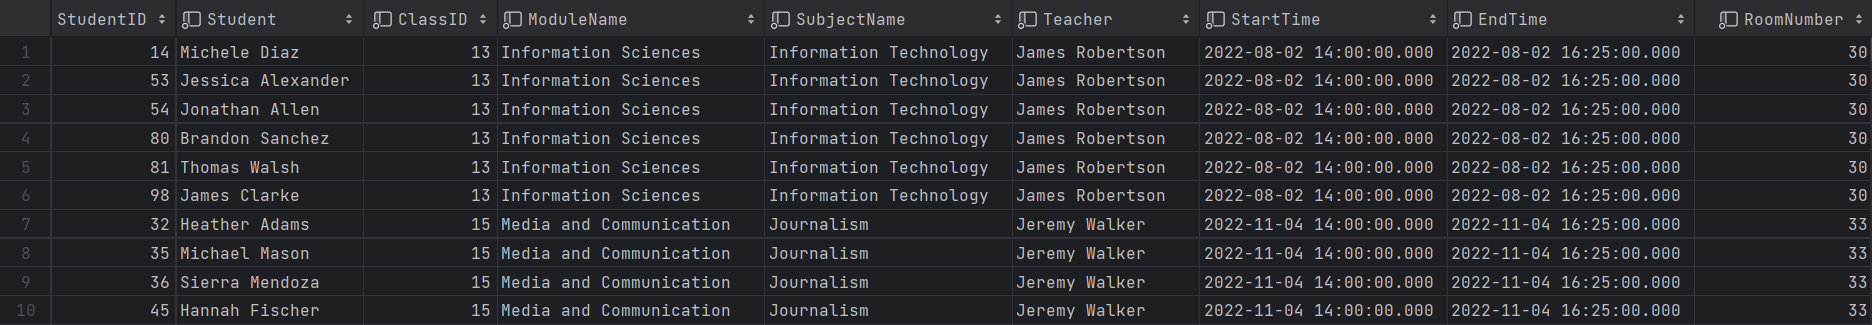
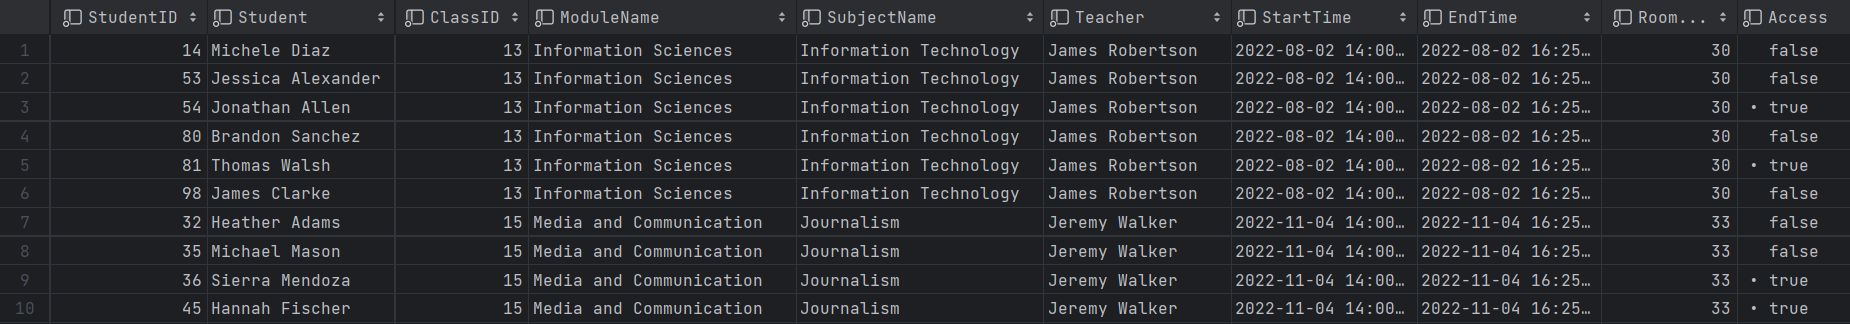
upd

diff --git a/report.md b/report.md
@@ -572,94 +572,106 @@ GROUP BY Studies.StudiesID, EducationalPrograms.ProgramName, EducationalPrograms
 
 ### **2. Lista „dłużników” – osoby, które skorzystały z usług, ale nie uiściły opłat.**
 ```sql
-CREATE VIEW Debtors 
-AS(
-SELECT S.*, ISNULL(OPS.ProgramsCost, 0) + ISNULL(OCS.ClassesCost, 0) - ISNULL(OP.Paid, 0) As Debt
-FROM Students S
-LEFT JOIN (
-    SELECT O.StudentID, SUM(EP.ProgramPrice) AS ProgramsCost
-    FROM Orders O
-    LEFT JOIN RegisteredPrograms RP ON RP.OrderID = O.OrderID
-    LEFT JOIN EducationalPrograms EP ON EP.ProgramID = RP.ProgramID
-    GROUP BY O.StudentID
-) OPS ON OPS.StudentID = S.StudentID
-LEFT JOIN (
-    SELECT O.StudentID, SUM(C.ClassPrice) AS ClassesCost
-    FROM Orders O
-    LEFT JOIN RegisteredClasses RC ON RC.OrderID = O.OrderID
-    LEFT JOIN Classes C ON C.ClassID = RC.ClassID
-    GROUP BY O.StudentID
-) OCS ON OCS.StudentID = S.StudentID
-LEFT JOIN (
-    SELECT O.StudentID, SUM(P.Amount) AS Paid
-    FROM Orders O
-    LEFT JOIN Payments P ON P.OrderID = O.OrderID
-    GROUP BY O.StudentID
-) OP ON OP.StudentID = S.StudentID
-WHERE ISNULL(OPS.ProgramsCost, 0) + ISNULL(OCS.ClassesCost, 0) > ISNULL(OP.Paid, 0)
-)
-
-
+CREATE VIEW Debtors AS
+    SELECT S.*, ISNULL(OPS.ProgramsCost, 0) + ISNULL(OCS.ClassesCost, 0) - ISNULL(OP.Paid, 0) As Debt
+    FROM Students S
+    LEFT JOIN (
+        SELECT O.StudentID, SUM(EP.ProgramPrice) AS ProgramsCost
+        FROM Orders O
+        LEFT JOIN RegisteredPrograms RP ON RP.OrderID = O.OrderID
+        LEFT JOIN EducationalPrograms EP ON EP.ProgramID = RP.ProgramID
+        GROUP BY O.StudentID
+    ) OPS ON OPS.StudentID = S.StudentID
+    LEFT JOIN (
+        SELECT O.StudentID, SUM(C.ClassPrice) AS ClassesCost
+        FROM Orders O
+        LEFT JOIN RegisteredClasses RC ON RC.OrderID = O.OrderID
+        LEFT JOIN Classes C ON C.ClassID = RC.ClassID
+        GROUP BY O.StudentID
+    ) OCS ON OCS.StudentID = S.StudentID
+    LEFT JOIN (
+        SELECT O.StudentID, SUM(P.Amount) AS Paid
+        FROM Orders O
+        LEFT JOIN Payments P ON P.OrderID = O.OrderID
+        GROUP BY O.StudentID
+    ) OP ON OP.StudentID = S.StudentID
+    WHERE ISNULL(OPS.ProgramsCost, 0) + ISNULL(OCS.ClassesCost, 0) > ISNULL(OP.Paid, 0)
 ```
+![Debtors](img/Debtors.png)
 
-### **4. Ogólny raport dotyczący frekwencji na zakończonych już wydarzeniach.**
+### **3. Ogólny raport dotyczący liczby zapisanych osób na przyszłe wydarzenia - realizowane w przyszłości zajęcia (z informacją, czy zajęcia są stacjonarnie, czy zdalnie).**
+```sql
+CREATE VIEW NumOfInterestedInFutureClasses as
+with
+tab as (
+   select Classes.ClassID, count(Students.StudentID) as NumOfInterested
+   from Classes
+       left outer join RegisteredClasses RC on Classes.ClassID = RC.ClassID and RC.Access = True
+       left outer join Orders on RC.OrderID = Orders.OrderID
+       left outer join Students on Orders.StudentID = Students.StudentID
+   where Classes.StartTime > getdate()
+   group by Classes.ClassID)
+select Classes.ClassID, Classes.StartTime, tab.NumOfInterested, OfflineClassID, OnlineClassID
+from Classes
+   left outer join tab on tab.ClassID = Classes.ClassID
+   left outer join OnlineClasses on Classes.ClassID = OnlineClasses.ClassID
+   left outer join OfflineClasses on Classes.ClassID = OfflineClasses.ClassID
+where Classes.StartTime > getdate()
+```
+![NumOfInterestedInFutureClasses](img/NumOfInterestedInFutureClasses.png)
+
+
+### **4. Ogólny raport dotyczący listy osób listy osób zapisanych na stacjonarne zajęcia w ramach programu edukacyjnego.**
 ```sql
 
--- a) Lista osób
-CREATE VIEW  ParticipantsList
-AS(
-select a.ClassID, s.StudentID, s.FirstName + ' ' + s.LastName as Student, c.TeacherID, c.SubjectID, c.StartTime, c.EndTime
-    from Attendance as a
-        inner join Students as s
-            on a.ParticipantID = s.StudentID
-        inner join Classes as c
-            on a.ClassID = c.ClassID
-    where c.EndTime < getdate()
-)
-
--- b) Liczba osób dla każdego wydarzenia
-CREATE VIEW NumberOfParticipants AS
-(
-select a.ClassID, c.TeacherID, c.SubjectID, c.StartTime, c.EndTime, count(s.StudentID) as StudentsAmount
-    from Classes as c
-        left join Attendance as a
-            on c.ClassID = a.ClassID
-        inner join Students as s
-            on a.ParticipantID = s.StudentID
-    where c.EndTime < getdate()
-group by a.ClassID, c.TeacherID, c.SubjectID, c.StartTime, c.EndTime
-)
+CREATE VIEW OfflineParticipantsList as
+select st.StudentID, st.FirstName + ' ' + st.LastName as Student, c.ClassID, m.ModuleName, sub.SubjectName, t.FirstName + ' ' + t.LastName as Teacher, c.StartTime, c.EndTime, ofl.RoomNumber, rp.Access
+from Students as st
+    inner join Orders as od
+        on st.StudentID = od.StudentID
+    inner join RegisteredPrograms as rp
+        on od.OrderID = rp.OrderID
+    inner join EducationalPrograms as ep
+        on rp.ProgramID = ep.ProgramID
+    inner join Modules as m
+        on ep.ProgramID = m.ProgramID
+    inner join Classes as c
+        on m.ModuleID = c.ModuleID
+    inner join Subjects as sub
+        on c.SubjectID = sub.SubjectID
+    inner join Teachers as t
+        on c.TeacherID = t.TeacherID
+    inner join OfflineClasses as ofl
+        on c.ClassID = ofl.ClassID
 ```
+![OfflineParticipantsList](img/OfflineParticipantsList.png)
 
 ### **5. Lista obecności dla każdego szkolenia z datą, imieniem, nazwiskiem i informacją czy uczestnik był obecny, czy nie.**
 ```sql
 
-CREATE VIEW AttendanceAllClasses
-AS(
+CREATE VIEW AttendanceAllClasses as 
 SELECT C.ClassID, CONCAT(year(C.StartTime), '-', month(C.StartTime), '-', day(C.StartTime)) as Date, Students.FirstName + ' ' + Students.LastName as Student, A.Present
 FROM Classes C
 LEFT OUTER JOIN Attendance A on C.ClassID = A.ClassID
 LEFT OUTER JOIN Students on Students.StudentID = A.ParticipantID
-)
 ```
+![AttendanceAllClasses](img/AttendanceAllClasses.png)
 
-### **6. Raport bilokacji: lista osób, które są zapisane na co najmniej dwa przyszłe szkolenia, które ze sobą kolidują czasowo.**
+### **6. Raport bilokacji: Lista kolidujących się zajęć wraz z informacją o studencie, ID zajęć oraz kolidyjącymi się terminami.**
 ```sql
-CREATE VIEW BilocationsList
-AS(
-select distinct s.StudentID, s.FirstName + ' ' + s.LastName as Student, a.ClassID as a_ClassID, a.StartTime as a_StartTime, a.EndTime as a_EndTime, b.ClassID as b_ClassID, b.StartTime as b_StartTime, b.EndTime as b_EndTime from Students as s
-        inner join Orders as o
-            on s.StudentID = o.StudentID
-        inner join RegisteredPrograms as rp
-            on o.OrderID = rp.OrderID
-        inner join Modules as m
-            on rp.ProgramID = m.ProgramID
-        inner join Classes as a
-            on m.ModuleID = a.ModuleID
-        cross join Classes as b
+CREATE VIEW BilocationsList as select distinct s.StudentID, s.FirstName + ' ' + s.LastName as Student, a.ClassID as a_ClassID, a.StartTime as a_StartTime, a.EndTime as a_EndTime, b.ClassID as b_ClassID, b.StartTime as b_StartTime, b.EndTime as b_EndTime from Students as s
+       inner join Orders as o
+           on s.StudentID = o.StudentID
+       inner join RegisteredPrograms as rp
+           on o.OrderID = rp.OrderID
+       inner join Modules as m
+           on rp.ProgramID = m.ProgramID
+       inner join Classes as a
+           on m.ModuleID = a.ModuleID
+       cross join Classes as b
 where a.ClassID < b.ClassID and ((a.StartTime BETWEEN b.StartTime and b.EndTime) or (b.StartTime BETWEEN a.StartTime and a.EndTime) or (a.EndTime BETWEEN b.StartTime and b.EndTime) or (b.EndTime BETWEEN a.StartTime and a.EndTime))
-)
 ```
+![AttendanceAllClasses](img/BilocationsList.png)
 
 <div style="page-break-after: always;"></div>
 
